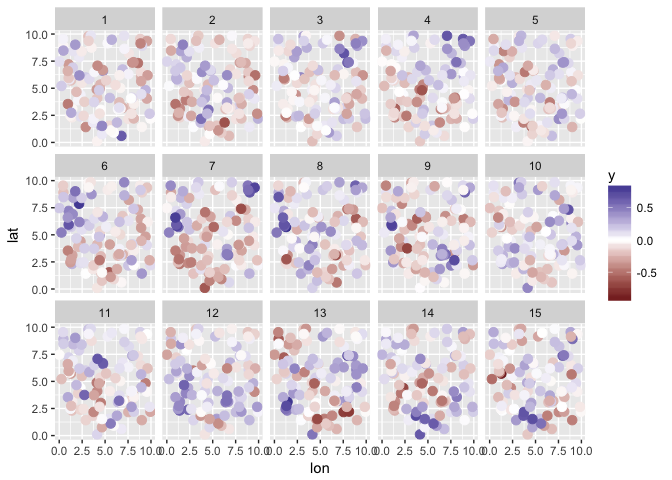
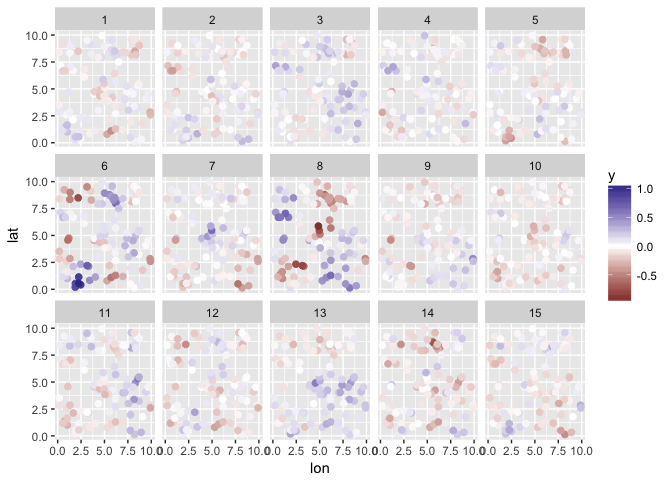
Rebuilt readme

diff --git a/README.md b/README.md
@@ -6,10 +6,10 @@ The rrfields R package implements predictive process spatiotemporal models that 
 
 You can install the development version of the package with:
 
-    ```R
-    # install.packages("devtools")
-    devtools::install_github("seananderson/rrfields")
-    ```
+``` r
+# install.packages("devtools")
+devtools::install_github("seananderson/rrfields")
+```
 
 An example model
 ----------------
@@ -18,18 +18,15 @@ Simulate data:
 
 ``` r
 library(rrfields)
-#> Loading required package: Rcpp
-#> Warning: package 'Rcpp' was built under R version 3.3.2
-set.seed(123)
-s <- sim_rrfield(df = 4, n_draws = 15)
+set.seed(999)
+s <- sim_rrfield(df = 3, n_draws = 15)
 ```
 
 ``` r
 library(ggplot2)
-#> Warning: package 'ggplot2' was built under R version 3.3.2
-ggplot(s$dat, aes(x = lon, y = lat, z = y, colour = y)) +
+ggplot(s$dat, aes(x = lon, y = lat, colour = y)) +
   facet_wrap(~time, nrow = 3) +
-  geom_point(size = 3) +
+  geom_point(size = 2) +
   scale_color_gradient2()
 ```
 
@@ -43,27 +40,51 @@ m <- rrfield(y ~ 1, data = s$dat, time = "time",
   lat = "lat", lon = "lon", nknots = 15, iter = 400, chains = 4)
 ```
 
+``` r
+print(m, pars = c("df[1]", "gp_sigma", "sigma", "gp_scale", "lp__"))
+#> Inference for Stan model: rrfield.
+#> 4 chains, each with iter=400; warmup=200; thin=1; 
+#> post-warmup draws per chain=200, total post-warmup draws=800.
+#> 
+#>             mean se_mean    sd    2.5%     25%     50%     75%   97.5%
+#> df[1]       5.73    0.12  2.47    2.33    3.93    5.29    6.94   11.77
+#> gp_sigma    0.18    0.00  0.02    0.14    0.17    0.18    0.19    0.22
+#> sigma       0.10    0.00  0.00    0.10    0.10    0.10    0.10    0.11
+#> gp_scale    0.49    0.00  0.02    0.44    0.47    0.49    0.50    0.53
+#> lp__     2824.67    0.68 11.97 2801.19 2816.97 2824.89 2833.28 2847.63
+#>          n_eff Rhat
+#> df[1]      418 1.01
+#> gp_sigma   800 1.00
+#> sigma      800 1.00
+#> gp_scale   800 1.00
+#> lp__       313 1.00
+#> 
+#> Samples were drawn using NUTS(diag_e) at Sat Nov 19 11:50:32 2016.
+#> For each parameter, n_eff is a crude measure of effective sample size,
+#> and Rhat is the potential scale reduction factor on split chains (at 
+#> convergence, Rhat=1).
+```
+
 Plot:
 
 ``` r
 library(bayesplot)
-#> Warning: package 'bayesplot' was built under R version 3.3.2
-#> This is bayesplot version 1.0.0
-mm <- as.matrix(m)
-mcmc_areas(mm, pars = c("df[1]"))
+posterior <- rstan::extract(m, inc_warmup = FALSE, permuted = FALSE)
+mcmc_trace(posterior,  pars = c("df[1]", "gp_sigma", "sigma", "gp_scale"))
 ```
 
 ![](README-figs/plot-1.png)
 
 ``` r
-mcmc_areas(mm, pars = c("gp_sigma", "sigma", "gp_scale"))
+
+mm <- as.matrix(m)
+mcmc_areas(mm, pars = c("df[1]"))
 ```
 
 ![](README-figs/plot-2.png)
 
 ``` r
-posterior <- rstan::extract(m, inc_warmup = FALSE, permuted = FALSE)
-mcmc_trace(posterior,  pars = c("df[1]", "gp_sigma", "sigma", "gp_scale"))
+mcmc_areas(mm, pars = c("gp_sigma", "sigma", "gp_scale"))
 ```
 
 ![](README-figs/plot-3.png)
